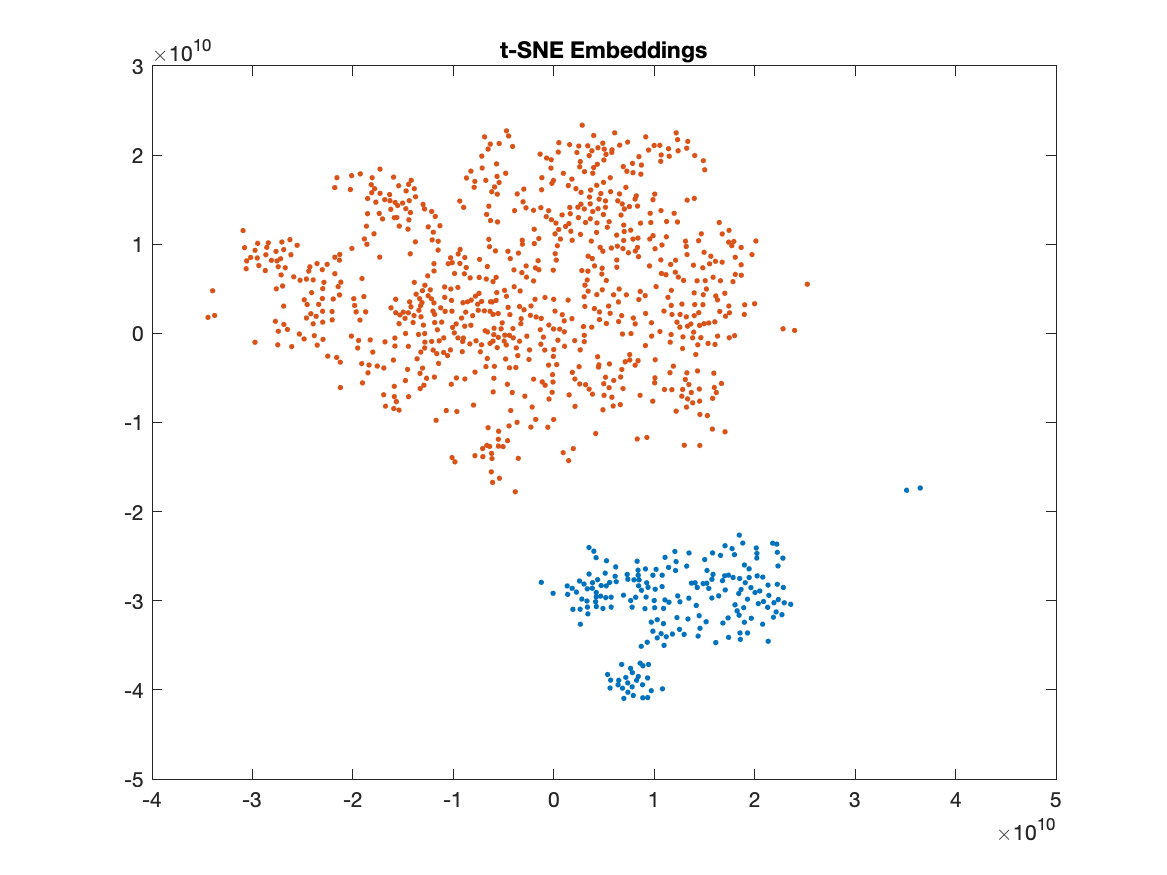
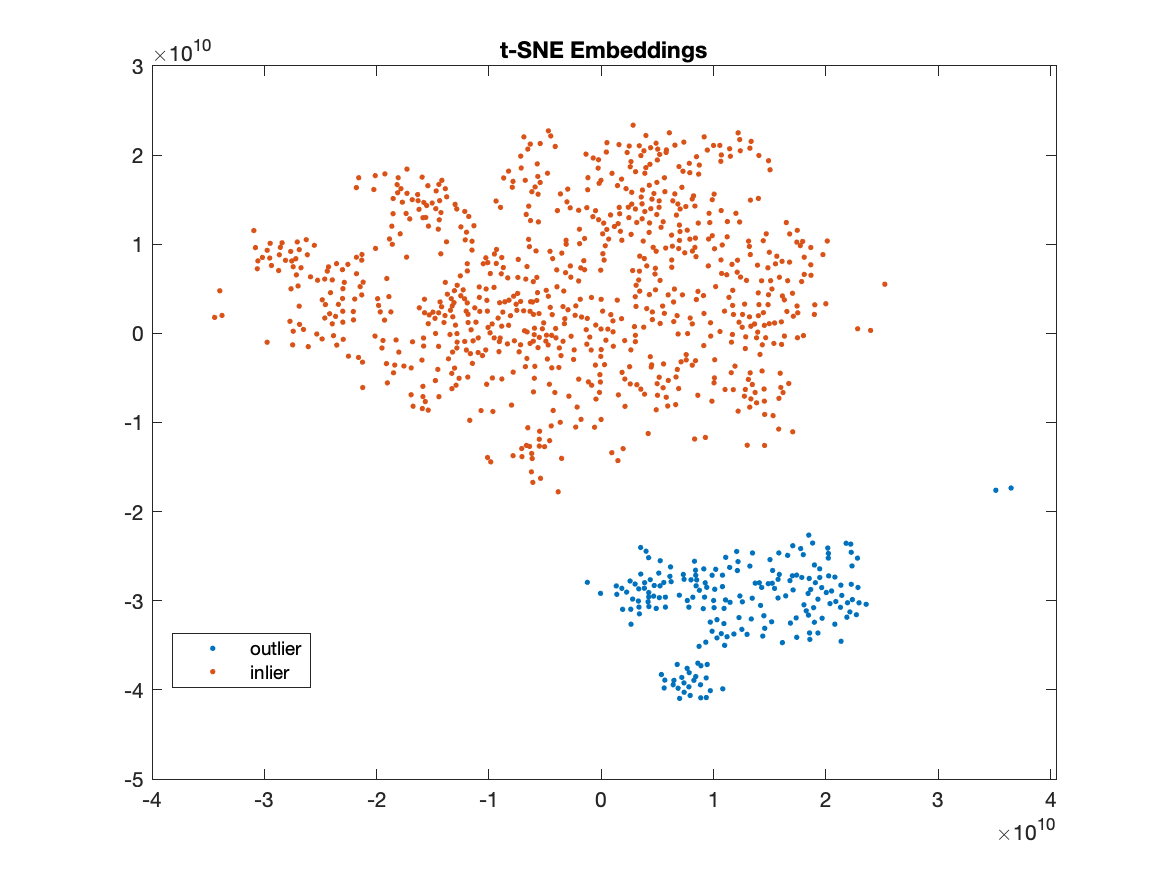
add legend to tsne

diff --git a/thesis/tweet_sentiment_extraction.m b/thesis/tweet_sentiment_extraction.m
@@ -12,7 +12,7 @@ projectDir = fileparts(fileparts(which(mfilename)));
 modelName = 'all-mpnet-base-v2';
 % modelName = 'bge-large-en-v1.5';
 % modelName = 'all-MiniLM-L6-v2';
-datasetName = 'toxic_conversations_50k';
+datasetName = 'tweet_sentiment_extraction';
 
 imageDir = fullfile(projectDir, 'images', datasetName);
 tableDir = fullfile(projectDir, 'tables', datasetName);
@@ -30,9 +30,9 @@ N = 1000;
 
 %% e=0.2, a=0.7
 
-alpha = 0.7;
 data = eps20;
 labels = eps20Labels;
+alpha = 0.7;
 
 Y = tsne(data, Distance="cosine");
 fig = figure(1);
@@ -108,18 +108,20 @@ function [embeddings,labels] = generateSample(filepath, sampleSize, contaminatio
     rawData = parquetread(filepath, SelectedVariableNames=["text", "label_text", "embedding"]);
     rawData.label_text = categorical(rawData.label_text);
 
-    nonToxicIndices = find(rawData.label_text == "not toxic");
-    toxicIndices = find(rawData.label_text == "toxic");
+    positiveIndices = find(rawData.label_text == "positive");
+    negativeIndices = find(rawData.label_text == "negative");
     
-    numToxicSamples = round(contamination * sampleSize);
-    numNonToxicSamples = sampleSize - numToxicSamples;
+    numNegativeSamples = round(contamination * sampleSize);
+    numPositiveSamples = sampleSize - numNegativeSamples;
     
-    toxicSampleIndices = datasample(toxicIndices, numToxicSamples, Replace=false);
-    nonToxicSampleIndices = datasample(nonToxicIndices, numNonToxicSamples, Replace=false);
-    data = rawData(sort(cat(1, toxicSampleIndices, nonToxicSampleIndices)),:);
-
+    negativeSampleIndices = datasample(negativeIndices, numNegativeSamples, "Replace", false);
+    positiveSampleIndices = datasample(positiveIndices, numPositiveSamples, "Replace", false);
+    data = rawData(sort(cat(1, positiveSampleIndices, negativeSampleIndices)),:);
+    
     embeddings = cell2mat(cellfun(@transpose,data.embedding, UniformOutput=false));
-    labels = renamecats(data.label_text, {'not toxic' 'toxic'}, {'inlier' 'outlier'});
+    labels = renamecats(data.label_text, {'positive' 'negative'}, {'inlier' 'outlier'});
+    data.label_text = removecats(data.label_text);
+    labels = removecats(labels);
 
     perm = randperm(height(embeddings));
     embeddings = embeddings(perm, :);

diff --git a/thesis/shakespear_trump.m b/thesis/shakespear_trump.m
@@ -27,16 +27,16 @@ mkdir(tableDir, modelName);
 
 N = 1000;
 [eps20, eps20Labels] = generateSample(file, N, 0.2);
-data = eps20;
-labels = eps20Labels;
 
 %% e=0.2, a=0.7
 
 alpha = 0.7;
+data = eps20;
+labels = eps20Labels;
 
 Y = tsne(data, Distance="cosine");
 fig = figure(1);
-textscatter(Y,string(labels),ColorData=labels,TextDensityPercentage=0);
+gscatter(Y(:,1), Y(:,2), labels);
 title("t-SNE Embeddings");
 saveas(fig,fullfile(imageDir, modelName, "e02_tsne.png"),'png');
 
